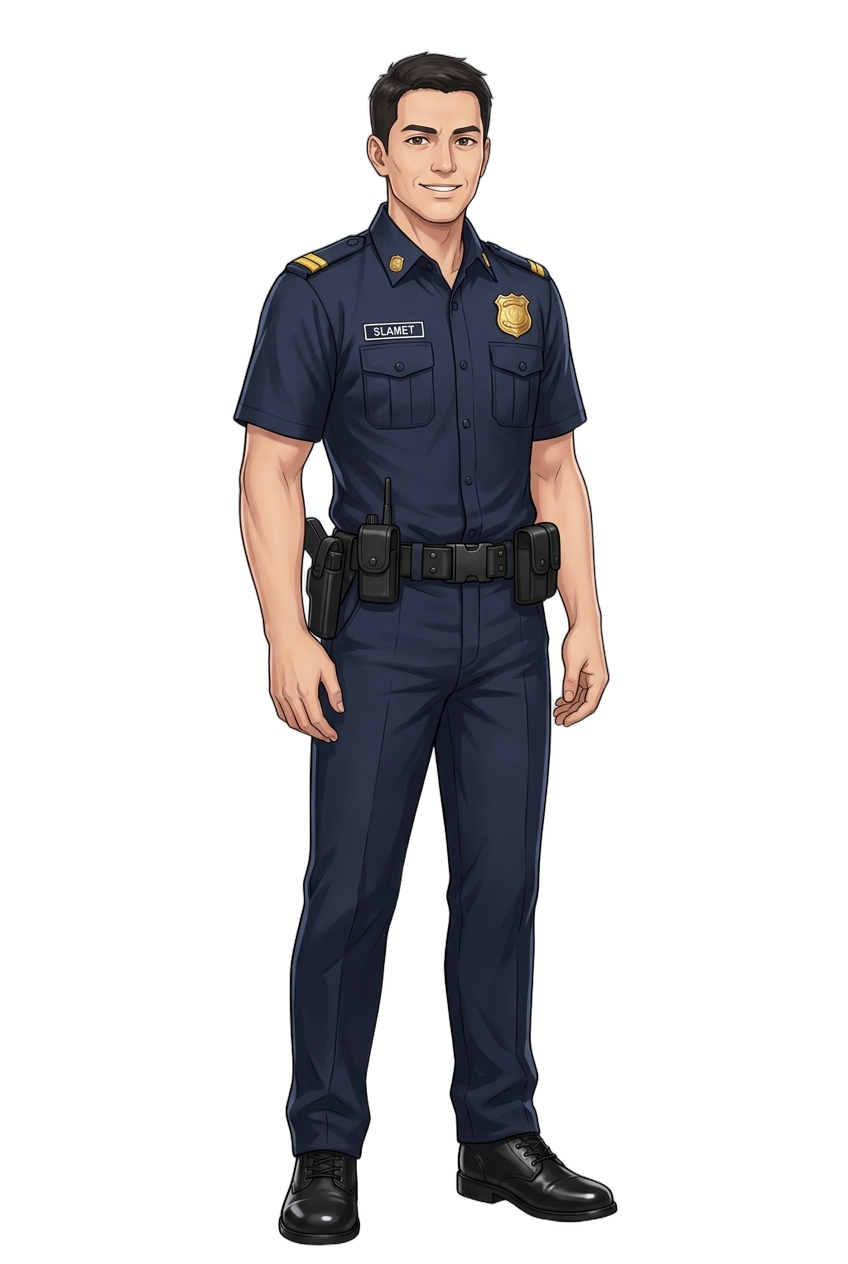
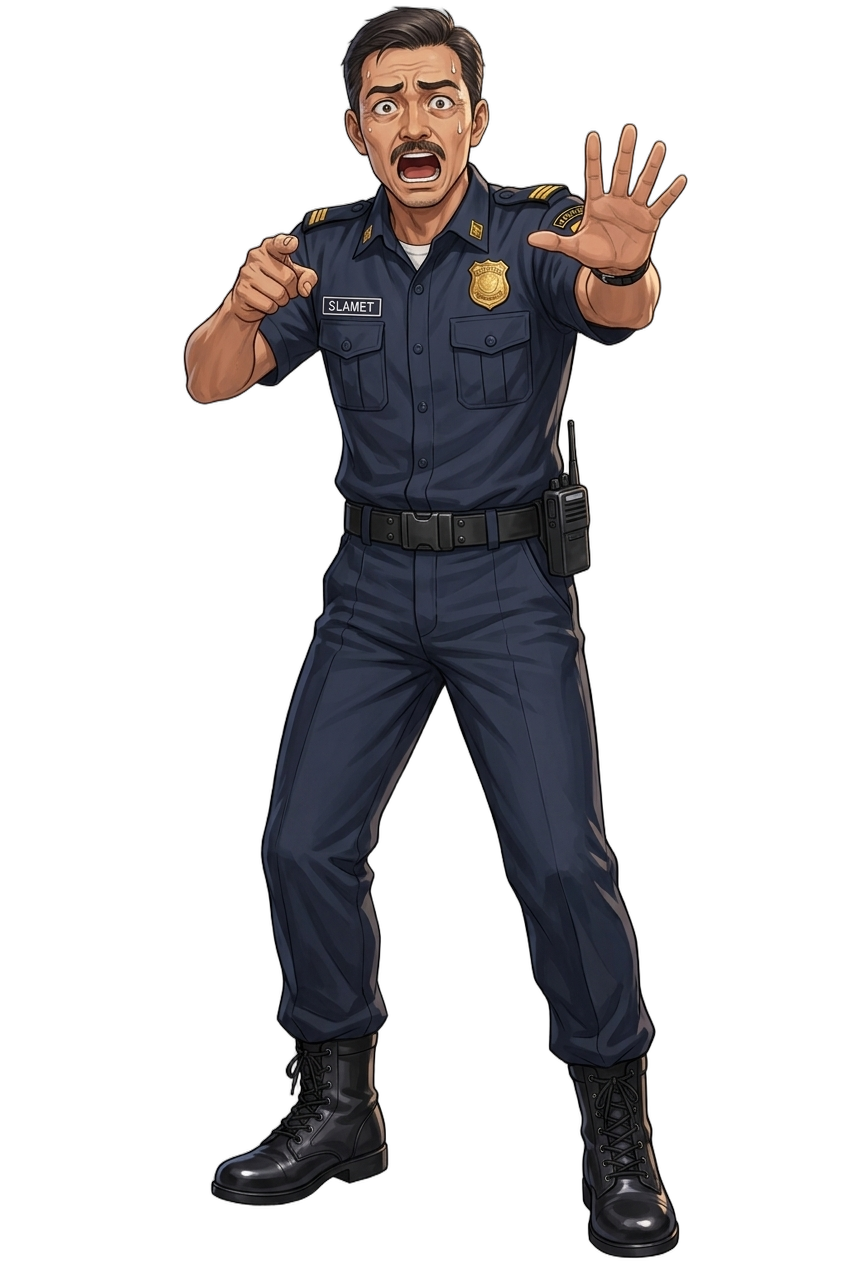
feat(art): update Pak Slamet panicked sprite and style-matched Thiago sprite

Changed region(s): [[0.2146, 0.0, 0.8278, 1.0]]

diff --git a/visual.js b/visual.js
@@ -163,7 +163,7 @@ function showSmoke() {
         <div class="day-title">HARI PERTAMA</div>
         <div class="day-meta">POJOKAN PARKIRAN<strong>08:52 WIB</strong></div>
       </header>
-      <img class="story-character" src="assets/satpam.png?v=2" alt="Pak Slamet Satpam">
+      <img class="story-character" src="assets/satpam.png?v=4" alt="Pak Slamet Satpam">
       <div class="story-body">
         <div class="story-panel">
           <div class="speaker">Pak Slamet · Satpam Gedung</div>
@@ -329,7 +329,7 @@ function showGame() {
           <strong>◉ KAS ${state.stats.cash} · ⚡ CHAOS ${state.stats.chaos}</strong>
         </div>
       </header>
-      <img class="story-character" src="assets/${sprite}.png?v=2" alt="${week.speaker}">
+      <img class="story-character" src="assets/${sprite}.png?v=4" alt="${week.speaker}">
       <div class="story-body">
         ${state.previous ? `<div class="previous-outcome"><strong>Dampak keputusanmu:</strong> ${state.previous}</div>` : ''}
         <div class="story-panel">
@@ -363,7 +363,7 @@ function showReaction() {
         <div class="day-title reaction-division">${reaction.division}</div>
         <div class="day-meta">KONDISI KAS<strong>◉ ${state.stats.cash} / 100</strong></div>
       </header>
-      <img class="story-character" src="assets/${reaction.sprite}.png?v=2" alt="${reaction.speaker}">
+      <img class="story-character" src="assets/${reaction.sprite}.png?v=4" alt="${reaction.speaker}">
       <div class="story-body">
         <div class="story-panel">
           <div class="speaker">${reaction.speaker}</div>
